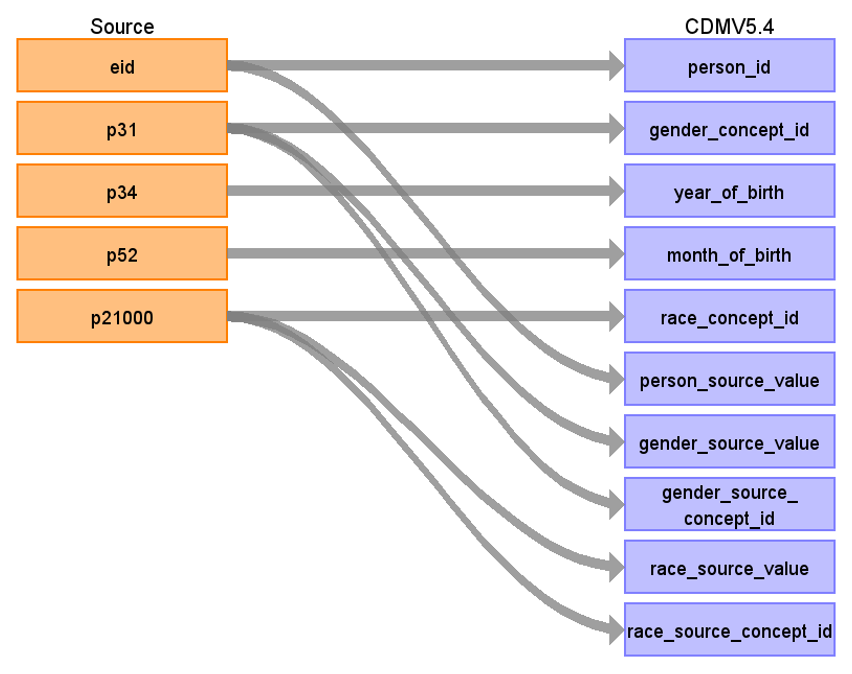
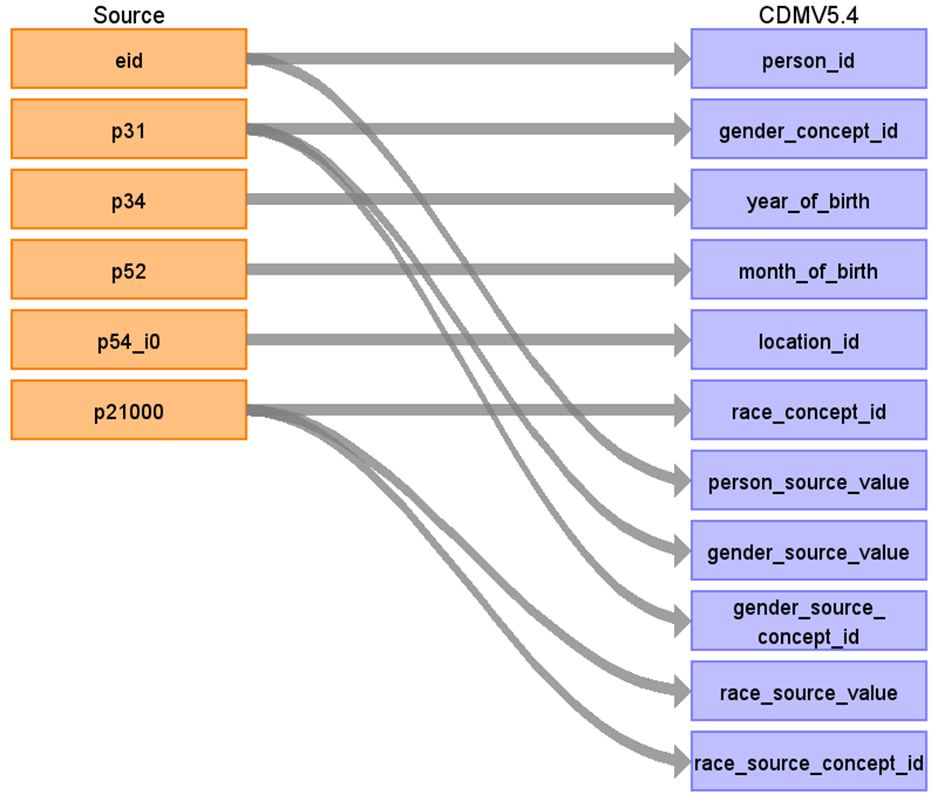
updated

diff --git a/docs/UKB/UKB Location.md b/docs/UKB/UKB Location.md
@@ -1,0 +1,30 @@
+---
+layout: default
+title: UKB Location
+nav_order: 3
+parent: UKB
+has_children: true
+description: "Location mapping from UK Biobank data"
+---
+
+# CDM Table name: LOCATION
+
+In UK biobank, patient and GP location information is absent. The only available information is the [UK Biobank Assessment Centre (Data-Coding 54)](https://biobank.ndph.ox.ac.uk/ukb/field.cgi?id=54), which indicates where participants were recruited.
+
+| Destination Field | Source field | Logic | Comment field |
+| --- | --- | --- | --- |
+| location_id | | | Autogenerate |
+| address_1| | | NULL |
+| address_2| | | NULL |
+| city| | | NULL |
+| state| | | NULL |
+| zip| | | NULL |
+| county| | | NULL |
+| location_source_value| | | NULL |
+| country_concept_id | | [Data-Coding 54](https://biobank.ndph.ox.ac.uk/ukb/field.cgi?id=54) will be mapped to Geography Concept_id by using UKB_GP_COUNTRY_STCM |
+| country_source_value | target_concept_name | using the mapped Geography concept name |
+| latitude| | | NULL |
+| longitude| | | NULL |
+
+
+

diff --git a/docs/UKB/UKB Person.md b/docs/UKB/UKB Person.md
@@ -23,7 +23,7 @@ description: "UK Person"
 | birth_datetime | | | |
 | race_concept_id | p21000 | p21000 will be mapped to Race Concept_id by using UK Biobank vocabulary. | [Data-Field 21000](https://biobank.ndph.ox.ac.uk/ukb/field.cgi?id=21000) |
 | ethnicity_concept_id | | 0 | |
-| location_id | | | |
+| location_id | p54_i0 | p54_i0 will be mapped to Geography Concept_id by using UKB_COUNTRY_STCM. | [Data-Field 54-Instance 0](https://biobank.ndph.ox.ac.uk/ukb/instance.cgi?id=2) |
 | provider_id | | | |
 | care_site_id | | | |
 | person_source_value | eid | | |

diff --git a/docs/UKB/UKB.md b/docs/UKB/UKB.md
@@ -10,7 +10,3 @@ permalink: /docs/UKB
 # UK Biobank ETL Documentation
 
 These materials are meant to serve as documentation and reference for how the UK Biobank data was converted to the OMOP Common Data Model (CDM).
-
-- Person
-- UKB - GP
-	- OP
